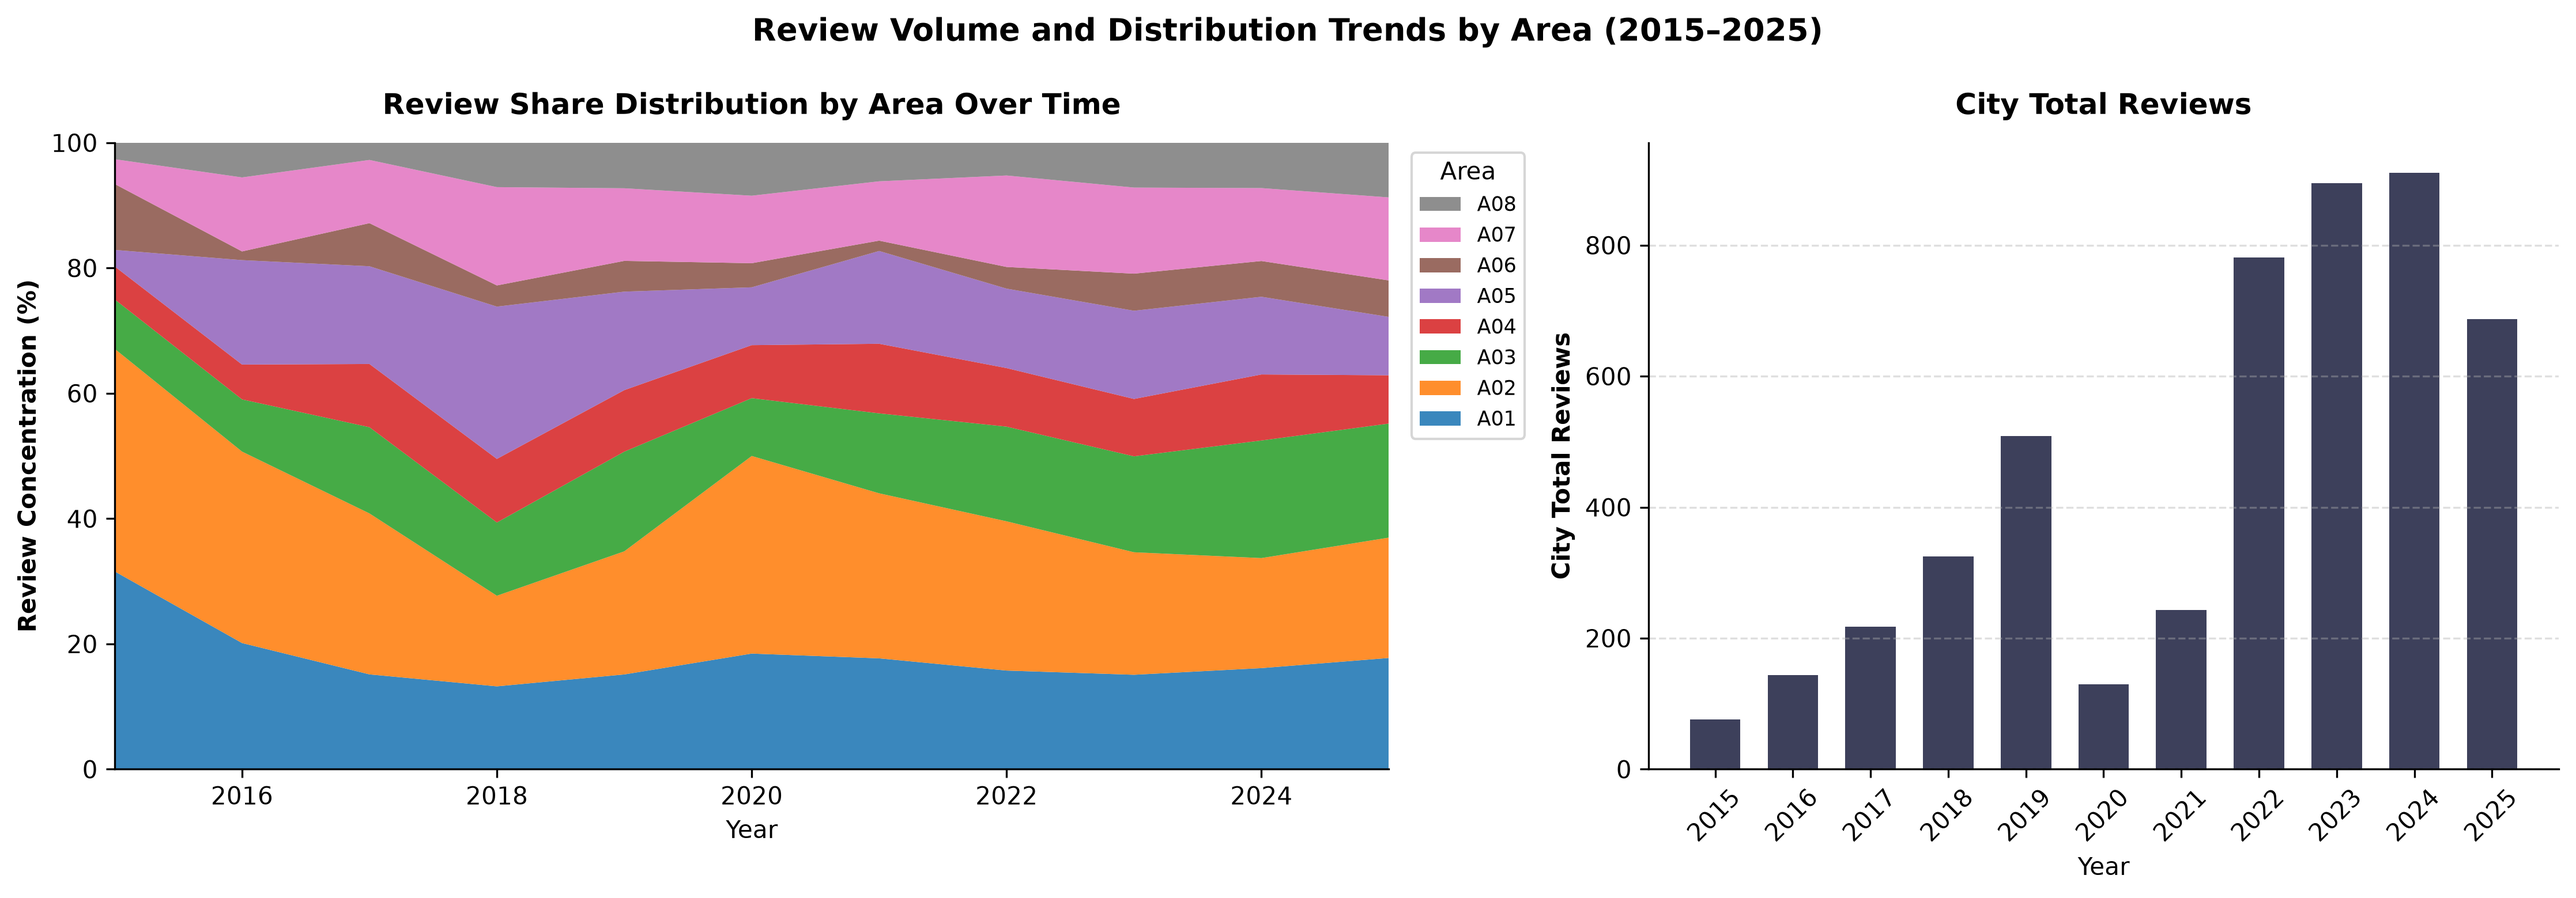
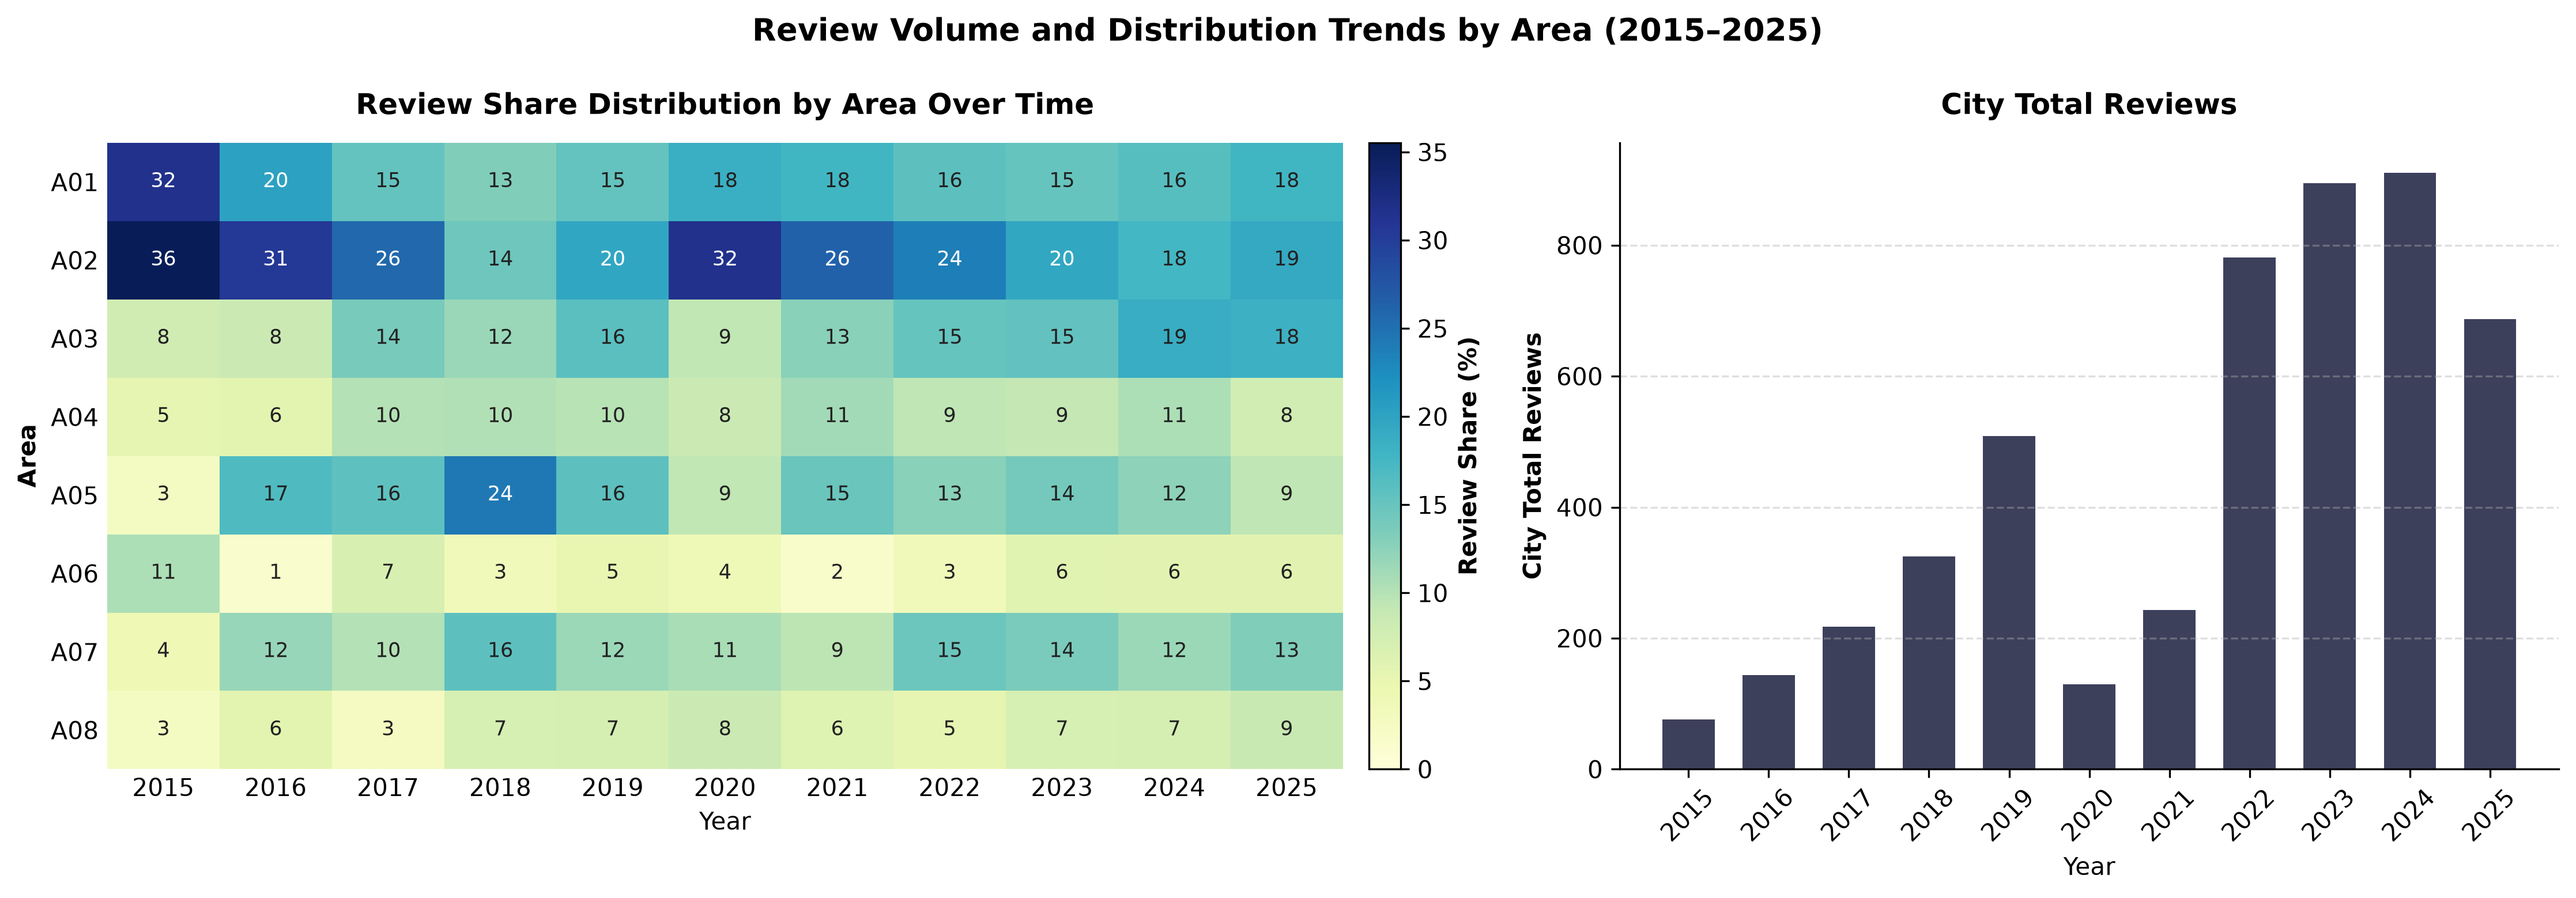
đổi review share sang heatmap

diff --git a/src/viz.py b/src/viz.py
@@ -509,7 +509,6 @@ def plot_review_concentration(df: pd.DataFrame, output_path: str | Path):
     pivot_df = df.pivot(index="year", columns="analysis_area", values="concentration_pct").fillna(0).sort_index()
     years = pivot_df.index.to_numpy()
     areas = sorted(pivot_df.columns.tolist())
-    cmap = plt.get_cmap("tab10")
 
     fig, (ax1, ax2) = plt.subplots(1, 2, figsize=(15, 5.2), gridspec_kw={"width_ratios": [1.4, 1]})
     fig.suptitle(
@@ -517,19 +516,30 @@ def plot_review_concentration(df: pd.DataFrame, output_path: str | Path):
         fontsize=13, fontweight="bold", y=0.99
     )
 
-    # Biểu đồ trái: Stacked Area thể hiện tỷ trọng tập trung theo năm
-    stacks = [pivot_df[a].to_numpy() for a in areas]
-    ax1.stackplot(years, stacks, labels=areas, colors=[cmap(i % 10) for i in range(len(areas))], alpha=0.88)
-    ax1.set_ylim(0, 100)
-    ax1.set_xlim(years.min(), years.max())
-    ax1.set_ylabel("Review Concentration (%)", fontweight="bold")
+    # Biểu đồ trái:  Heatmap (hàng = khu vực, cột = năm)
+    mat = pivot_df[areas].T.to_numpy()            # shape: (số khu vực, số năm)
+    vmax = float(mat.max()) if mat.size else 1.0
+    im = ax1.imshow(mat, aspect="auto", cmap="YlGnBu", vmin=0, vmax=vmax)
+
+    ax1.set_xticks(np.arange(len(years)))
+    ax1.set_xticklabels([str(int(y)) for y in years])
+    ax1.set_yticks(np.arange(len(areas)))
+    ax1.set_yticklabels(areas)                    
     ax1.set_xlabel("Year")
+    ax1.set_ylabel("Area", fontweight="bold")
     ax1.set_title("Review Share Distribution by Area Over Time", fontweight="bold", pad=12)
 
-    h_leg, l_leg = ax1.get_legend_handles_labels()
-    ax1.legend(h_leg[::-1], l_leg[::-1], title="Area", bbox_to_anchor=(1.01, 1), loc="upper left", fontsize=8.5)
-    ax1.spines["top"].set_visible(False)
-    ax1.spines["right"].set_visible(False)
+    for i in range(mat.shape[0]):
+        for j in range(mat.shape[1]):
+            v = mat[i, j]
+            ax1.text(j, i, f"{v:.0f}", ha="center", va="center", fontsize=8.5,
+                     color="white" if v > vmax * 0.55 else "#222222")
+
+    cbar = fig.colorbar(im, ax=ax1, pad=0.02, fraction=0.04)
+    cbar.set_label("Review Share (%)", fontweight="bold")
+    for sp in ax1.spines.values():
+        sp.set_visible(False)
+    ax1.tick_params(length=0)
 
     # Biểu đồ phải: Tổng số review toàn thành phố qua các năm
     yearly_total = df[["year", "city_total_reviews"]].drop_duplicates().sort_values("year")
@@ -547,6 +557,7 @@ def plot_review_concentration(df: pd.DataFrame, output_path: str | Path):
     out.parent.mkdir(parents=True, exist_ok=True)
     plt.savefig(out, dpi=300, bbox_inches="tight")
     plt.close(fig)
+
 
 
 def plot_revpar(df: pd.DataFrame, output_path: str | Path):

diff --git a/src/exec_kpi.py b/src/exec_kpi.py
@@ -9,7 +9,7 @@ try:
         calculate_dormant_listing_rate_over_time,
         calculate_overpriced_rate,
         calculate_revpar_single_snapshot,
-        calculate_professional_host_share_over_time,
+        calculate_host_share_over_time,
         calculate_top_n_host_share_over_time,
         calculate_unavailability_rate,
         label_distribution_area,
@@ -24,7 +24,7 @@ except ImportError:
         calculate_dormant_listing_rate_over_time,
         calculate_overpriced_rate,
         calculate_revpar_single_snapshot,
-        calculate_professional_host_share_over_time,
+        calculate_host_share_over_time,
         calculate_top_n_host_share_over_time,
         calculate_unavailability_rate,
         label_distribution_area,
@@ -107,11 +107,11 @@ def exec_kpi():
     )
 
     # 5. KPI Professional Host Share (chuỗi thời gian qua các snapshot)
-    pro_host_share_df = calculate_professional_host_share_over_time(
+    pro_host_share_df = calculate_host_share_over_time(
         config_path=CONFIG_PATH,
         **kpi_cfg["professional_host"],
         latest_only=False,
-        output_path=OUTPUT_DIR / "kpi_professional_host_share.csv",
+        output_path=OUTPUT_DIR / "kpi_host_share.csv",
     )
 
     # 6. KPI Top N Host Share (toàn thành phố theo các mốc snapshot)

diff --git a/src/kpi.py b/src/kpi.py
@@ -211,7 +211,7 @@ def calculate_revpar_single_snapshot(
     return kpi_df
 
 
-def calculate_professional_host_share_single_snapshot(listings_df, snapshot=None, pro_threshold=10):
+def calculate_host_share_single_snapshot(listings_df, snapshot=None, pro_threshold=10):
 
     df = listings_df.copy()
 
@@ -240,7 +240,7 @@ def calculate_professional_host_share_single_snapshot(listings_df, snapshot=None
     return kpi_df
 
 
-def calculate_professional_host_share_over_time(
+def calculate_host_share_over_time(
     config_path,
     pro_threshold=10,
     latest_only=False,
@@ -256,7 +256,7 @@ def calculate_professional_host_share_over_time(
     all_results = []
     for date in snapshots:
         listings_df = _read_processed_listings(date, usecols=cols)
-        all_results.append(calculate_professional_host_share_single_snapshot(
+        all_results.append(calculate_host_share_single_snapshot(
             listings_df, snapshot=date, pro_threshold=pro_threshold))
 
     final_kpi = pd.concat(all_results, ignore_index=True)

diff --git a/src/exec_viz.py b/src/exec_viz.py
@@ -70,9 +70,9 @@ def exec_viz():
     label_output_path = output_folder / "label_distribution_area.png"
     plot_label_distribution(label_df, label_output_path)
 
-    prof_host_csv = csv_folder / "kpi_professional_host_share.csv"
+    prof_host_csv = csv_folder / "kpi_host_share.csv"
     prof_host_df = csv_to_df(prof_host_csv)
-    prof_host_output_path = output_folder / "professional_host_share.png"
+    prof_host_output_path = output_folder / "host_share.png"
     plot_professional_host_share(prof_host_df, prof_host_output_path)
 
     review_conc_csv = csv_folder / "kpi_review_concentration.csv"
